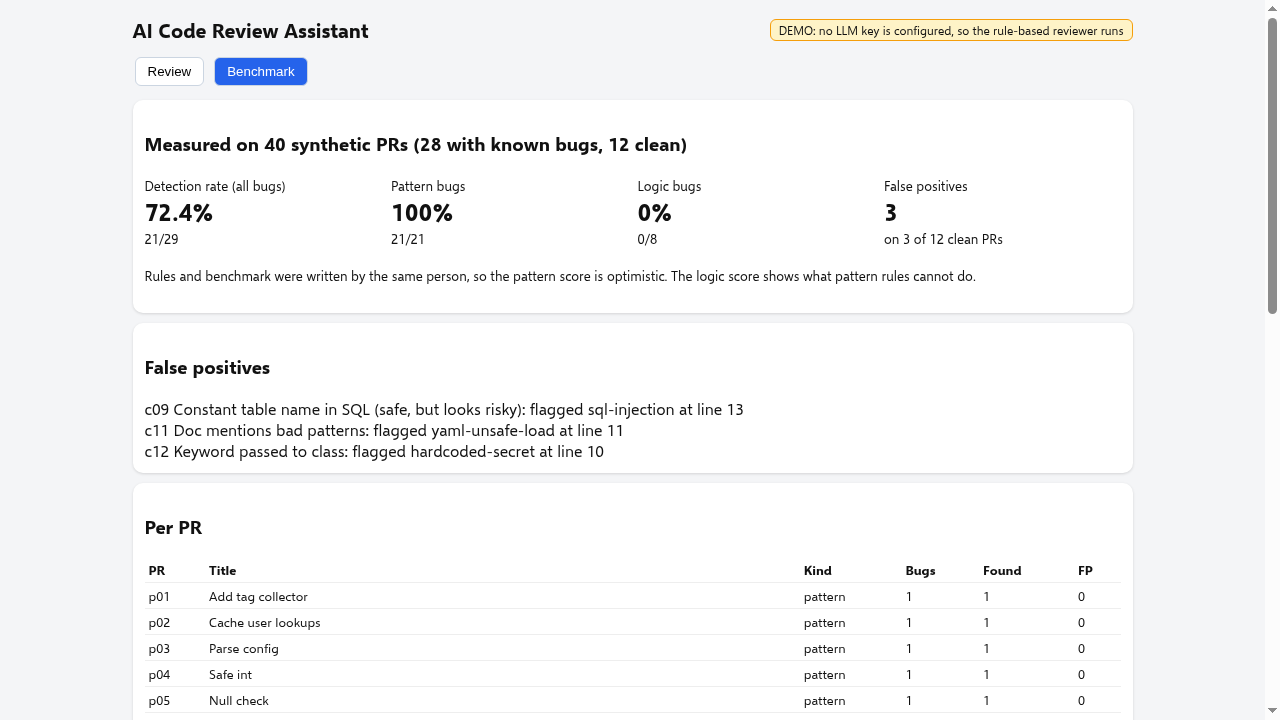
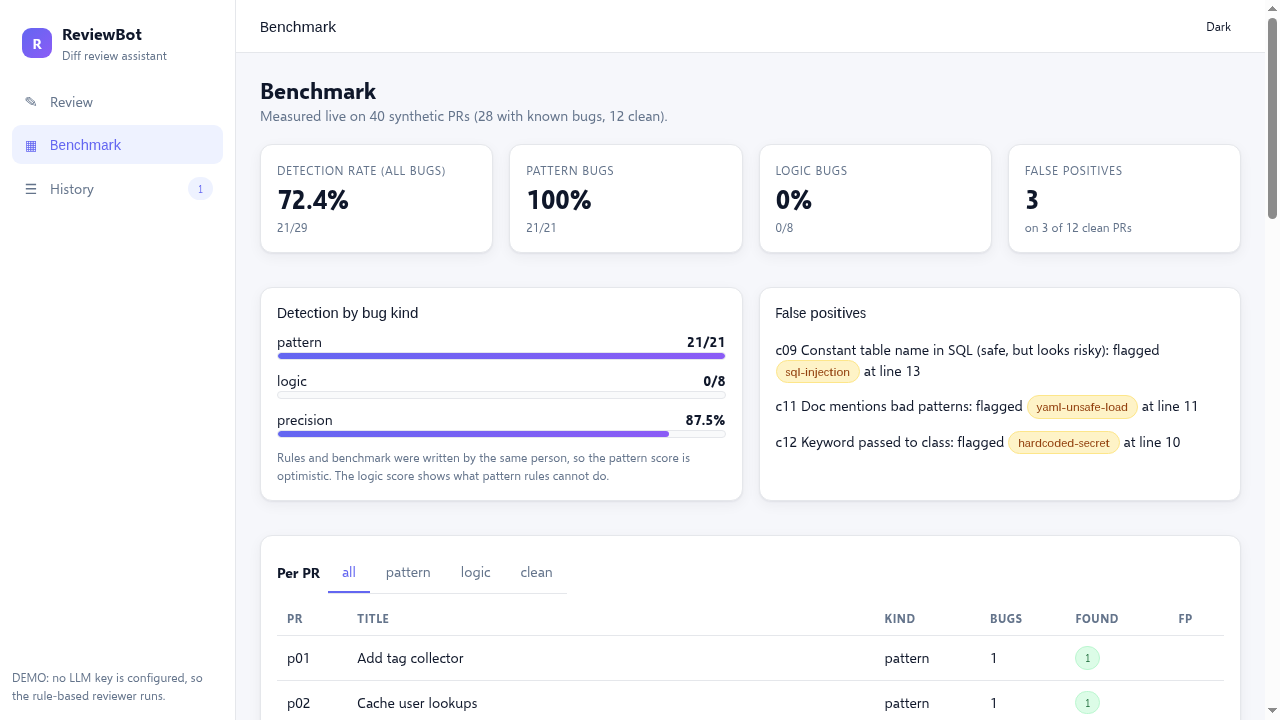
docs: update README and screenshots for the v3 UI

diff --git a/README.md b/README.md
@@ -7,6 +7,8 @@ Reviews a pull request diff and flags likely bugs on the exact changed line. Pas
 ![Review](docs/review.png)
 ![Benchmark](docs/benchmark.png)
 
+The review page shows findings inline under the flagged diff line, with a severity filter and Markdown export. History entries made in the same browser can be reopened.
+
 ## Stack
 Python, FastAPI, PostgreSQL (review history), GitHub API (httpx), React + TypeScript (Vite), GitHub Actions (workflow files in `ci/`), optional LLM API.
 
